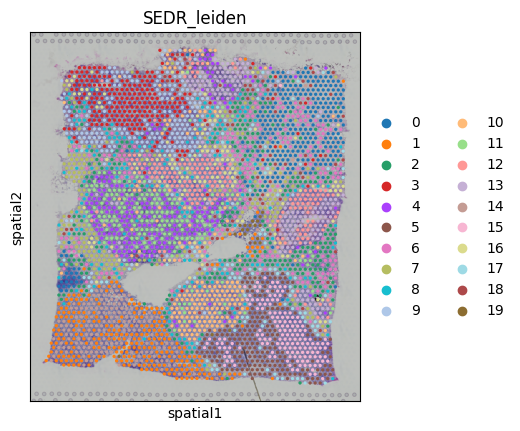
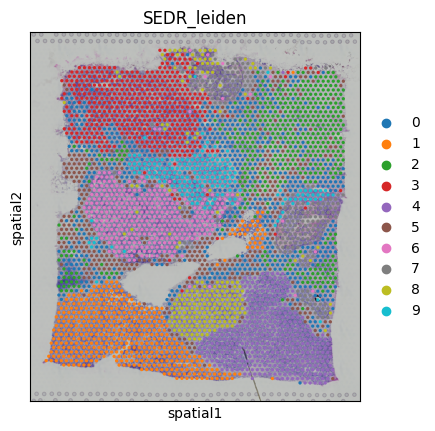
test sedr st datasets of breat cancer section 1 and 2, loaded human brain datasets in test_step1.py

diff --git a/models/sedrModels/src/SEDR_trainer.py b/models/sedrModels/src/SEDR_trainer.py
@@ -9,7 +9,9 @@ from sklearn.cluster import KMeans
 import os
 
 from models.sedrModels.progress.bar import Bar
+from models.sedrModels.src.SEDR_model import SEDR 
 from models.sedrModels.src.SEDR_model_v2 import SEDR_V2
+
 
 
 def target_distribution(batch):
@@ -43,7 +45,7 @@ class SEDR_Trainer:
     '''
     Edits made to this class from the original code
     '''
-    def __init__(self, node_X, graph_dict, params):
+    def __init__(self, node_X, graph_dict, params, version):
         self.params = params
         self.device = params.device
         self.epochs = params.epochs
@@ -56,7 +58,10 @@ class SEDR_Trainer:
         else:
             self.adj_mask = None
 
-        self.model = SEDR_V2(self.params.cell_feat_dim, self.params).to(self.device)
+        if version == 1:
+            self.model = SEDR(self.params.cell_feat_dim, self.params).to(self.device)
+        elif version == 2:
+            self.model = SEDR_V2(self.params.cell_feat_dim, self.params).to(self.device)
         self.optimizer = torch.optim.Adam(params=list(self.model.parameters()),
                                           lr=self.params.gcn_lr, weight_decay=self.params.gcn_decay)
 
@@ -85,6 +90,53 @@ class SEDR_Trainer:
                                         batch_time=batch_time * (self.epochs - epoch) / 60, loss=loss.item())
             bar.next()
         bar.finish()
+        
+    def train_without_dec(self):
+        self.model.train()
+        bar = Bar('GNN model train without DEC: ', max=self.epochs)
+        bar.check_tty = False
+        for epoch in range(self.epochs):
+            start_time = time.time()
+            self.model.train()
+            self.optimizer.zero_grad()
+            latent_z, mu, logvar, de_feat, _, feat_x, _ = self.model(self.node_X, self.adj_norm)
+
+            
+            loss_gcn = gcn_loss(preds=self.model.dc(latent_z), labels=self.adj_label, mu=mu,
+                                logvar=logvar, n_nodes=self.params.cell_num, norm=self.norm_value, mask=self.adj_label)
+            loss_rec = reconstruction_loss(de_feat, self.node_X)
+            loss = self.params.feat_w * loss_rec + self.params.gcn_w * loss_gcn
+            loss.backward()
+            self.optimizer.step()
+
+            end_time = time.time()
+            batch_time = end_time - start_time
+            bar_str = '{} / {} | Left time: {batch_time:.2f} mins| Loss: {loss:.4f}'
+            bar.suffix = bar_str.format(epoch + 1, self.epochs,
+                                        batch_time=batch_time * (self.epochs - epoch) / 60, loss=loss.item())
+            bar.next()
+        bar.finish()
+        
+    def train_one_episode_without_dec(self):
+        self.model.train()
+        
+        start_time = time.time()
+        self.optimizer.zero_grad()
+        latent_z, mu, logvar, de_feat, _, feat_x, _ = self.model(self.node_X, self.adj_norm)
+
+        
+        loss_gcn = gcn_loss(preds=self.model.dc(latent_z), labels=self.adj_label, mu=mu,
+                            logvar=logvar, n_nodes=self.params.cell_num, norm=self.norm_value, mask=self.adj_label)
+        loss_rec = reconstruction_loss(de_feat, self.node_X)
+        loss = self.params.feat_w * loss_rec + self.params.gcn_w * loss_gcn
+        loss.backward()
+        self.optimizer.step()
+
+        end_time = time.time()
+        batch_time = end_time - start_time
+        
+        return batch_time, loss
+        
 
     def save_model(self, save_model_file):
         torch.save({'state_dict': self.model.state_dict()}, save_model_file)
@@ -147,5 +199,10 @@ class SEDR_Trainer:
             bar.suffix = bar_str.format(epoch_id + 1, self.epochs, loss=loss.item())
             bar.next()
         bar.finish()
+        
+    
+    
+
+           
 
 

diff --git a/test_sedr.py b/test_sedr.py
@@ -14,6 +14,7 @@ from models.sedrModels.src.graph_func import graph_construction
 from models.sedrModels.src.utils_func import mk_dir, adata_preprocess, load_visium_sge
 from models.sedrModels.src.SEDR_trainer import SEDR_Trainer
 from models.sedrModels.src.get_params import getSEDRParams
+from models.sedrModels.progress.bar import Bar
 
 warnings.filterwarnings('ignore')
 torch.cuda.cudnn_enabled = False
@@ -26,11 +27,12 @@ print('===== Using device: ' + device)
 # ################ Parameter setting
 sedr_params = getSEDRParams()
 sedr_params.device = device
-sedr_params.epochs = 1
+
 
 # ################## Data download folder
 data_root = './data/10x_Genomics_Visium/'
 data_name = 'V1_Breast_Cancer_Block_A_Section_1'
+# data_name = 'V1_Breast_Cancer_Block_A_Section_2'
 save_fold = os.path.join('./output/10x_Genomics_Visium/', data_name)
 
 
@@ -43,13 +45,31 @@ sedr_params.cell_num = adata_h5.shape[0]
 sedr_params.save_path = mk_dir(save_fold)
 print('==== Graph Construction Finished')
 
+
+NUM_EPOCHS = 100
+
+# set sedr version = 1 to use original sedr, no modifications
+# version 2: modified sedr where only one latent space is produced for both spatial and sc
+
+sedr_version = 2
+
+# currently not yet modified for training with dec
+sedr_params.using_dec = False
 # ################## Model training
-sedr_net = SEDR_Trainer(adata_X, graph_dict, sedr_params)
+sedr_net = SEDR_Trainer(adata_X, graph_dict, sedr_params, sedr_version)
 if sedr_params.using_dec:
-    for e in range(10):
+    for e in range(NUM_EPOCHS):
         sedr_net.train_with_dec()
 else:
-    sedr_net.train_without_dec()
+    bar = Bar(f'SEDR v{sedr_version} model train without DEC: ', max=NUM_EPOCHS)
+    bar.check_tty = False
+    for e in range(NUM_EPOCHS):
+        time, loss = sedr_net.train_one_episode_without_dec()
+        bar_str = '{} / {} | Left time: {batch_time:.2f} mins| Loss: {loss:.4f}'
+        bar.suffix = bar_str.format(e + 1, NUM_EPOCHS,
+                                    batch_time=time * (NUM_EPOCHS - e) / 60, loss=loss.item())
+        bar.next()
+    bar.finish()
 sedr_feat, _, _, _ = sedr_net.process()
 
 
@@ -82,13 +102,12 @@ def res_search_fixed_clus(adata, fixed_clus_count, increment=0.02):
             break
     return res
 
-n_clusters = 20
+n_clusters = 10
 eval_resolution = res_search_fixed_clus(adata_sedr, n_clusters)
 sc.tl.leiden(adata_sedr, key_added="SEDR_leiden", resolution=eval_resolution)
 
-# will be saved under figures/<name>.png
-
-sc.pl.spatial(adata_sedr, img_key="hires", color=['SEDR_leiden'], save="_sedr_rand_clustering_"+data_name+".png")
+# will be saved under figures/ with sedr version and dataset
+sc.pl.spatial(adata_sedr, img_key="hires", color=['SEDR_leiden'], save=f"_sedr_v{sedr_version}_clustering_"+data_name+".png")
 
 
 

diff --git a/test_step_1.py b/test_step_1.py
@@ -1,0 +1,67 @@
+"""Version 1 of 3 step training. 
+    step 1. sample datasets, train scvi end to end on single cell data, get z
+    step 2. train scvi on subset of genes for single cell data, match z
+    step 3. train sedr on subset of genes for spatial cell data, match z
+    step 4. pass high resolution genetic information embedded with scvi through sedr to get spatial data
+"""
+import scvi
+import torch
+import numpy as np
+
+from models.scviModels.VAEs import baseVAE, scVAE
+from models.descriminatorModels.classifier_trainer import BinaryClassifierTrainer
+from models.sedrModels.src.SEDR_trainer import SEDR_Trainer
+from data_loaders.anndata_loader import loadSCDataset, loadSTDataset
+from data_loaders.tools import sampleHighestExpressions, findCommonGenes, extractGenes, combineLatentSpaceWithLabels
+import anndata
+import scanpy as sc
+
+import warnings
+warnings.filterwarnings("ignore")
+
+torch.manual_seed(2)
+np.random.seed(2)
+
+# sc_adata = loadSCDataset()
+# st_adata = loadSTDataset() 
+
+# x_adata = sampleHighestExpressions(st_adata)
+
+# # find the common genes between the two datasets
+# common_genes = findCommonGenes(st_adata, sc_adata)
+
+# # extract only expression data from sc dataset that share the common genes
+# xprime_adata = extractGenes(sc_adata, common_genes)
+
+# # extract only expreesion data from st dataset that share the common genes
+# xbar_adata = extractGenes(st_adata, common_genes)
+
+adata_sc_read = sc.read_h5ad("data/st_top5k_genes.h5ad")
+
+adata_sc_read.layers["counts"] = adata_sc_read.X.copy()  # preserve counts
+sc.pp.normalize_total(adata_sc_read, target_sum=1e4)
+sc.pp.log1p(adata_sc_read)
+adata_sc_read.raw = adata_sc_read  # freeze the state in `.raw`
+
+sc.pp.filter_genes(adata_sc_read, min_counts=3)
+sc.pp.filter_cells(adata_sc_read, min_counts=3)
+
+sc.pp.highly_variable_genes(
+    adata_sc_read,
+    n_top_genes=2000,
+    subset=True,
+    layer="counts",
+    flavor="seurat_v3"
+)
+
+sc.pp.filter_genes(adata_sc_read, min_counts=3)
+sc.pp.filter_cells(adata_sc_read, min_counts=3)
+
+
+LATENT_DIM = 10
+# step 1
+# # import a scvi model and train end-to-end
+baseVAE.setup_anndata(adata_sc_read, layer='counts')
+vae1 = baseVAE(adata_sc_read, n_latent=LATENT_DIM)
+vae1.train(max_epochs=5)
+

diff --git a/data_loaders/anndata_loader.py b/data_loaders/anndata_loader.py
@@ -1,10 +1,56 @@
 import scvi
+import scanpy as sc
 def loadSCDataset():
     '''placeholder for now'''
-    adata = scvi.data.synthetic_iid()
-    return adata
+    # adata = scvi.data.synthetic_iid()
+    # adata = sc.read(
+    #     "data/lung_atlas.h5ad",
+    #     backup_url="https://figshare.com/ndownloader/files/24539942",
+    # )
+    
+    adata_sc_read = sc.read_h5ad("data/sc_top2k_genes.h5ad")
+
+    adata_sc_read.layers["counts"] = adata_sc_read.X.copy()  # preserve counts
+    sc.pp.normalize_total(adata_sc_read, target_sum=1e4)
+    sc.pp.log1p(adata_sc_read)
+    adata_sc_read.raw = adata_sc_read  # freeze the state in `.raw`
+
+    sc.pp.filter_genes(adata_sc_read, min_counts=3)
+    sc.pp.filter_cells(adata_sc_read, min_counts=3)
+
+    sc.pp.highly_variable_genes(
+        adata_sc_read,
+        n_top_genes=2000,
+        subset=True,
+        layer="counts",
+        flavor="seurat_v3"
+    )
+
+    sc.pp.filter_genes(adata_sc_read, min_counts=3)
+    sc.pp.filter_cells(adata_sc_read, min_counts=3)
+
+    return adata_sc_read
 
 def loadSTDataset():
-    '''placeholder for now'''
-    adata = scvi.data.synthetic_iid()
-    return adata
+    adata_st_read = sc.read_h5ad("data/st_top5k_genes.h5ad")
+
+    adata_st_read.layers["counts"] = adata_st_read.X.copy()  # preserve counts
+    sc.pp.normalize_total(adata_st_read, target_sum=1e4)
+    sc.pp.log1p(adata_st_read)
+    adata_st_read.raw = adata_st_read  # freeze the state in `.raw`
+
+    sc.pp.filter_genes(adata_st_read, min_counts=3)
+    sc.pp.filter_cells(adata_st_read, min_counts=3)
+
+    sc.pp.highly_variable_genes(
+        adata_st_read,
+        n_top_genes=2000,
+        subset=True,
+        layer="counts",
+        flavor="seurat_v3"
+    )
+
+    sc.pp.filter_genes(adata_st_read, min_counts=3)
+    sc.pp.filter_cells(adata_st_read, min_counts=3)
+
+    return adata_st_read

diff --git a/v1_three_step_training.py b/v1_three_step_training.py
@@ -25,7 +25,7 @@ np.random.seed(2)
 sc_adata = loadSCDataset()
 st_adata = loadSTDataset() 
 
-x_adata = sampleHighestExpressions(st_adata)
+x_adata = sampleHighestExpressions(sc_adata)
 
 # find the common genes between the two datasets
 common_genes = findCommonGenes(st_adata, sc_adata)
